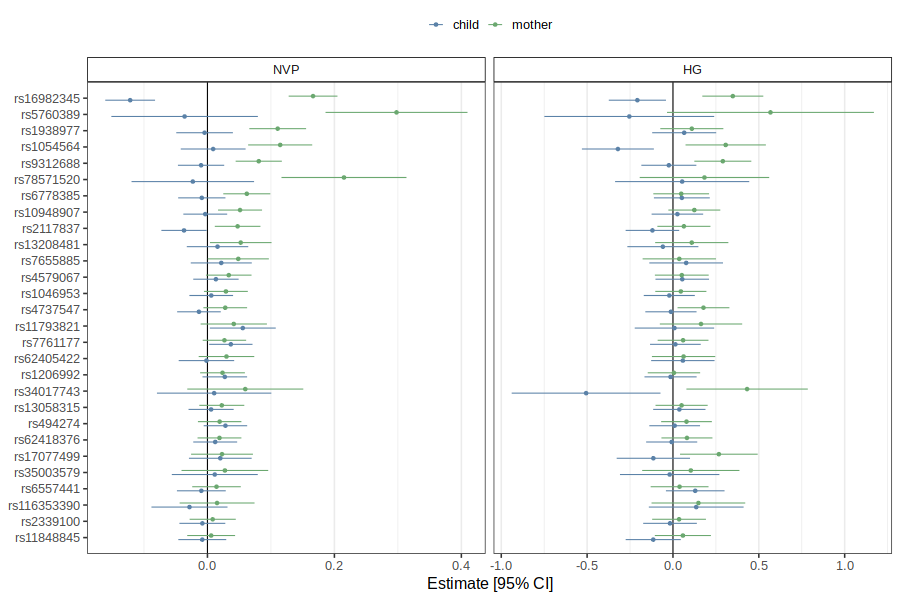
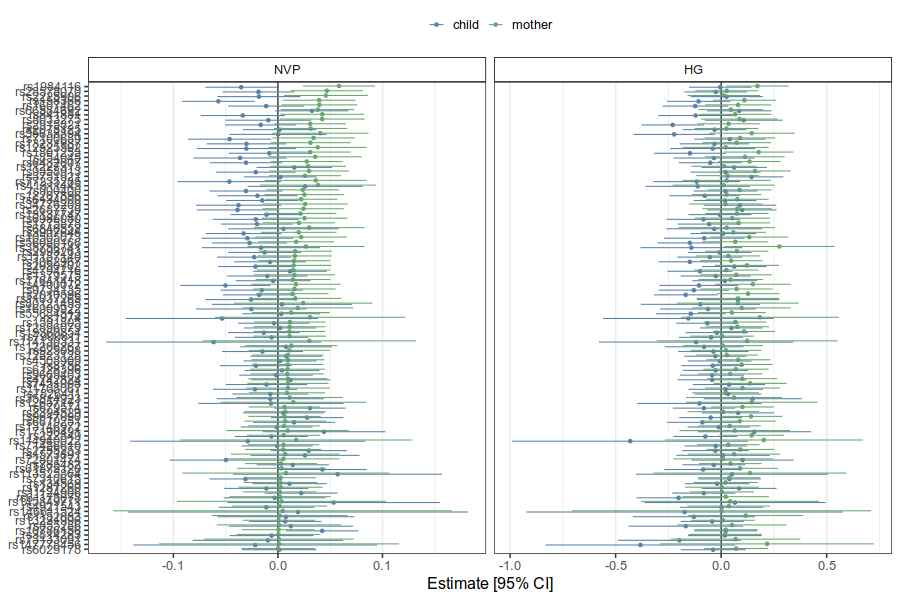
rerun nvp mother-child models

diff --git a/src/nvp/nvp_mother_child.md b/src/nvp/nvp_mother_child.md
@@ -67,7 +67,11 @@ phenotypes <- pregnancy %>%
   filter(
     is.na(plural_birth) & !is.na(child_sentrix_id) & !is.na(mother_sentrix_id) & unrelated_children == 1
   )
+
+nrow(phenotypes)
 ```
+
+    [1] 49251
 
 ### Make nvp/hg variable
 
